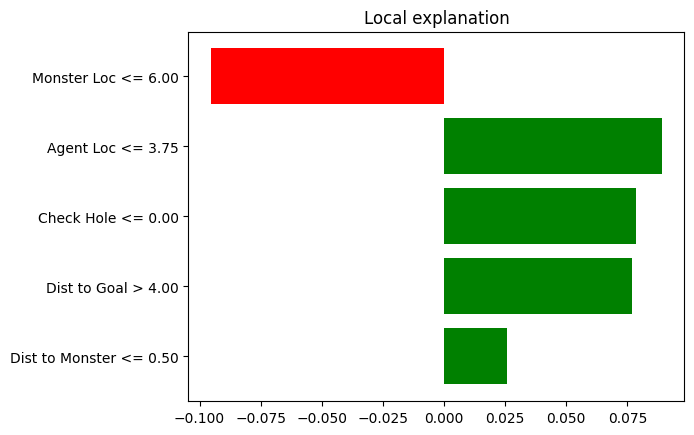
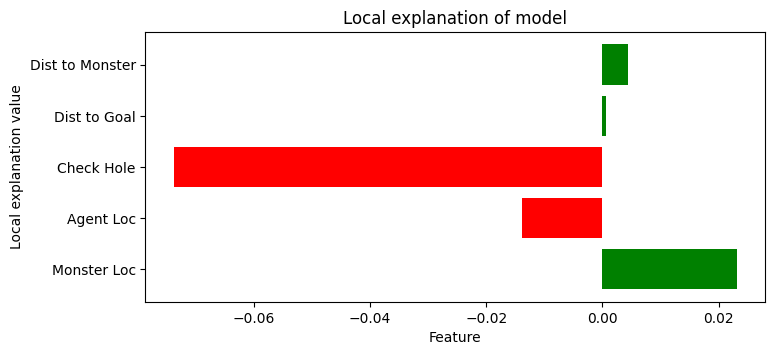
Update features

diff --git a/eval.py b/eval.py
@@ -1,0 +1,73 @@
+import os
+import numpy as np
+from env import IRLEnv
+from utils import load_VI_policy, loadObject
+import argparse
+
+agent_feats = loadObject("agent_feats.pkl")
+monster_feats = loadObject("monster_feats.pkl")
+trans_matrix = np.load("trans_matrix.npy")
+
+
+def get_episode_returns(env_version, policy, n_episodes, deterministic=True, max_ep_len=10, render_human=False,
+                        seed=789):
+    np.random.seed(seed)
+    env = IRLEnv(
+        render_mode="human" if render_human else None,
+        seed=seed + 765,
+        version=env_version,
+    )
+    ep_returns = []
+
+    # Main loop
+    for i in range(n_episodes):
+
+        # collect data
+        obs, info = env.reset()
+        agent_loc, monster_loc = obs
+
+        total_reward = 0
+        for t in range(max_ep_len):
+            ai = agent_feats.index(agent_loc)
+            mi = monster_feats.index(monster_loc)
+
+            si = ai * len(monster_feats) + mi
+            act = int(policy[si])
+            # print(act)
+
+            obs_next, rew, term, trunc, info = env.step(act)
+            agent_loc, monster_loc = obs_next
+            total_reward += rew
+
+            # Determine if the new state is a terminal state. If so, then quit
+            # the game. If not, step forward into the next state.
+            if term or trunc or rew==50:
+                # The next state is a terminal state (goal / hole). Therefore, we should
+                # record the outcome of the game in winLossRecord for game i.
+                break
+            else:
+                # Simply step to the next state
+                obs = obs_next
+
+        ep_returns.append(total_reward)
+
+    return ep_returns
+
+
+if __name__ == '__main__':
+    parser = argparse.ArgumentParser()
+    parser.add_argument('--fname', type=str, default="trained_policy_std.npy", help='Path to trained policy file')
+    parser.add_argument('--render', type=int, default=0, help='set to 1 to visualize trained policy')
+
+    args = parser.parse_args()
+    fname = args.fname
+    render_human = bool(args.render)
+    assert os.path.exists(fname), f"Policy file '{fname}' does not exist"
+    env_version = 3  # DO NOT CHANGE
+    n_episodes = 1000
+
+    policy = load_VI_policy(fname)
+    ep_returns = get_episode_returns(env_version, policy, deterministic=True, n_episodes=n_episodes, render_human=render_human)
+
+    print('No Episodes:', n_episodes)
+    print('Mean Return:', np.mean(ep_returns))

diff --git a/utils.py b/utils.py
@@ -36,8 +36,20 @@ def dist_to_monster(agent_loc, monster_loc, n_row=4, n_col=4):
     a_row, a_col = agent_loc // n_row, agent_loc % n_col
     m_row, m_col = monster_loc // n_row, monster_loc % n_col
     dist = np.abs(a_row - m_row) + np.abs(a_col - m_col)  # L1 dist
-    dist = dist/(n_row-1 + n_col -1)
-    return np.array([1.0 - dist])
+    # dist = dist/(n_row-1 + n_col -1)
+    return np.array([dist])
+
+
+def dist_to_hole(agent_loc, n_row=4, n_col=4):
+    hole_locations = [5, 7, 11, 12]
+    min_dist = 0.0
+    for hole_loc in hole_locations:
+        a_row, a_col = agent_loc // n_row, agent_loc % n_col
+        m_row, m_col = hole_loc // n_row, hole_loc % n_col
+        dist = np.abs(a_row - m_row) + np.abs(a_col - m_col)  # L1 dist
+        dist = dist/(n_row-1 + n_col -1)
+        min_dist = min(min_dist, dist)
+    return np.array([min_dist])
 
 
 def check_current_location(agent_loc):
@@ -55,6 +67,7 @@ if __name__=="__main__":
     # Create feature matrix
     all_agent_locs = np.arange(n_row*n_col).tolist()
     all_monster_locs = [2, 6, 8, 9, 10]
+    hole_locations = [5, 7, 11, 12]
 
     # Save locations of agent and monster --> to be used when computing features in MaxEnt
     saveObject(all_agent_locs, "agent_feats.pkl")
@@ -75,7 +88,7 @@ if __name__=="__main__":
             print(np.eye(len(all_monster_locs))[m_idx])
             feat_map[s_idx] = np.concatenate((np.eye(len(all_agent_locs))[a],
                                               np.eye(len(all_monster_locs))[m_idx],
-                                              check_current_location(a),
+                                              dist_to_hole(a),
                                               dist_to_monster(a, m),
                                               [dist_to_goal(a)]))
 

diff --git a/maxent_irl.py b/maxent_irl.py
@@ -1,4 +1,3 @@
-
 from value_iteration import value_iteration
 from neuralNet import *
 from utils import *
@@ -8,6 +7,7 @@ from model import *
 import shap
 import lime
 from matplotlib import pyplot as plt
+import statistics
 
 def normalize(vals):
     """
@@ -227,7 +227,7 @@ def get_lime_values(reward_net_new, feat_map):
 
     # Calculate the median for each key
     for key, values_list in median_values.items():
-        median_values[key] = median(values_list)
+        median_values[key] = statistics.median(values_list)
 
     
     # average_dict = {key: value / num_dicts for key, value in sums.items()}
